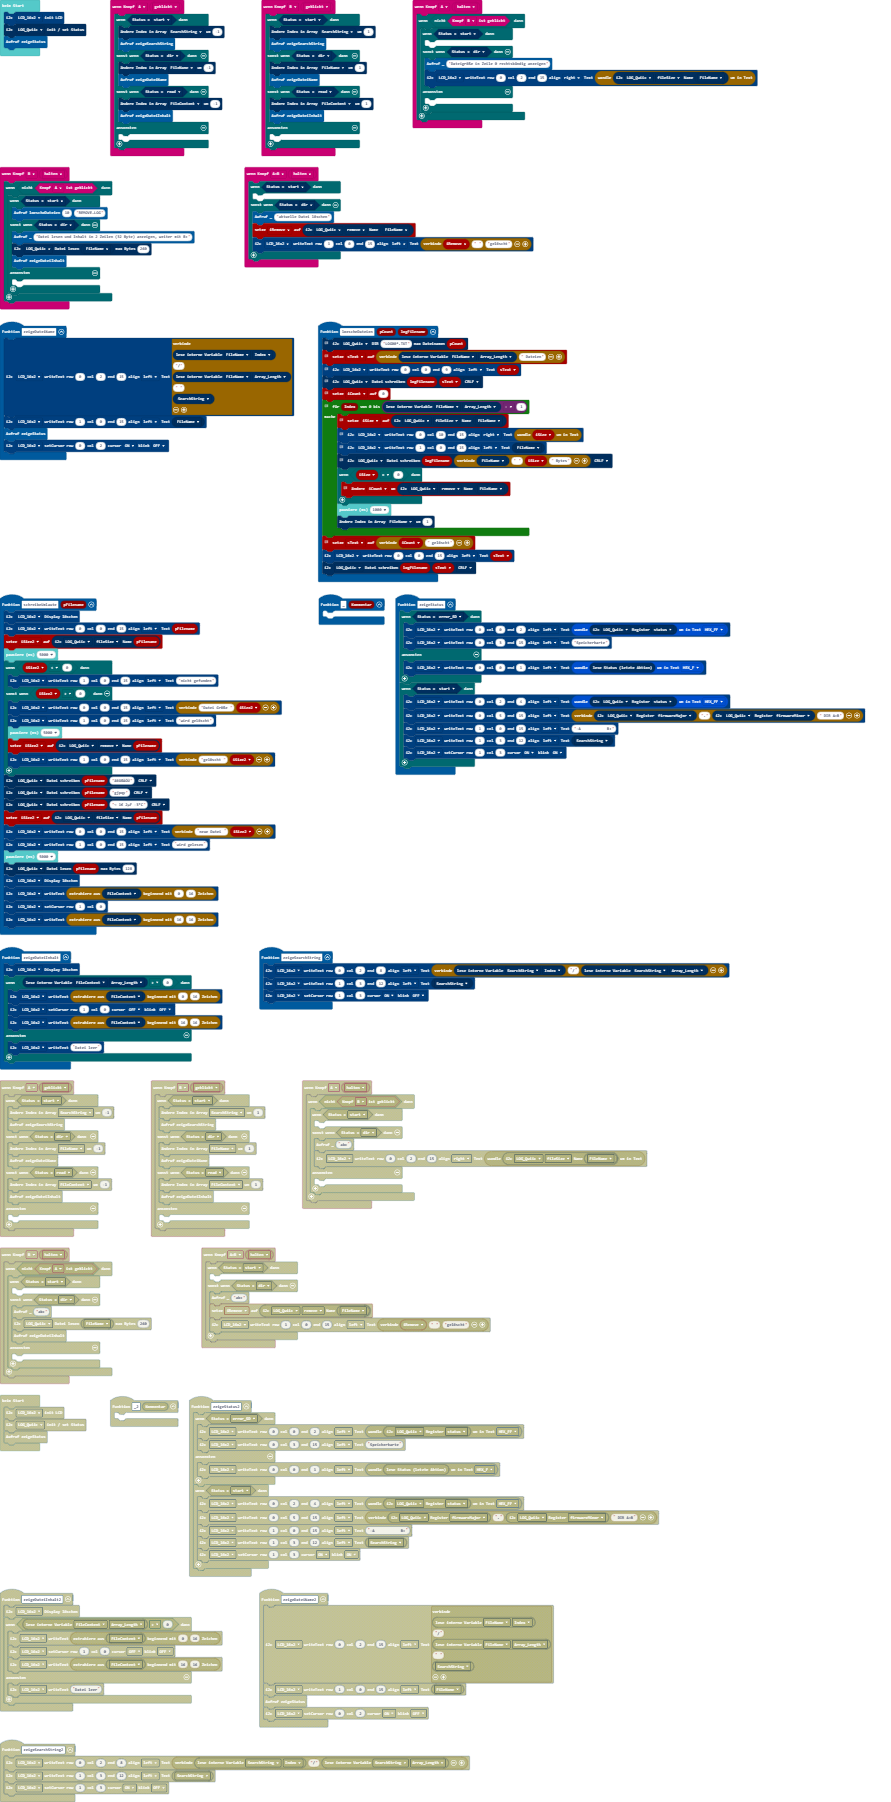
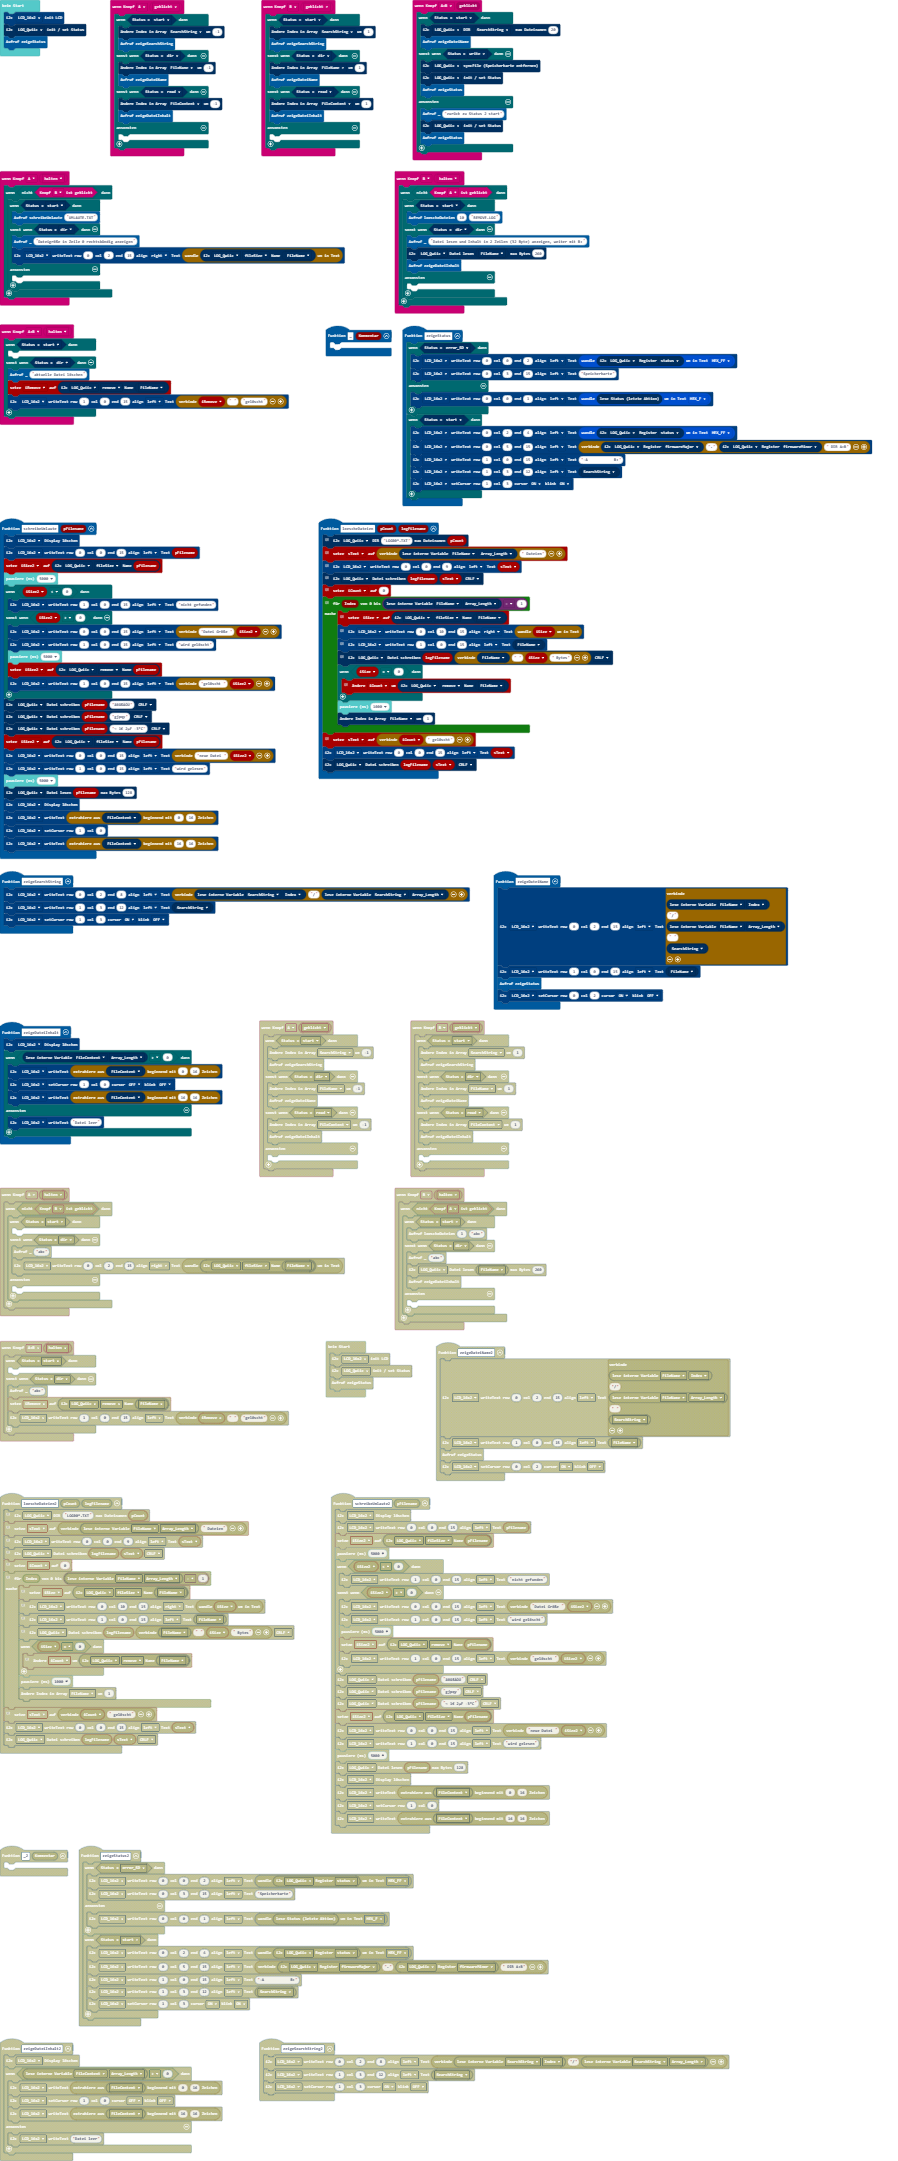
Aktualisiere main.blocks, main.ts

diff --git a/main.ts b/main.ts
@@ -60,6 +60,20 @@ function zeigeDateiName () {
     zeigeStatus()
     lcd16x2rgb.setCursorCB(lcd16x2rgb.eADDR_LCD.LCD_16x2, 0, 2, lcd16x2rgb.eONOFF.ON, lcd16x2rgb.eONOFF.OFF)
 }
+input.onButtonEvent(Button.AB, input.buttonEventClick(), function () {
+    if (qwiicopenlog.isStatus(qwiicopenlog.eStatus.start)) {
+        qwiicopenlog.listDirectory(qwiicopenlog.eADDR.LOG_Qwiic, qwiicopenlog.getString(qwiicopenlog.eArray.SearchString), 20)
+        zeigeDateiName()
+    } else if (qwiicopenlog.isStatus(qwiicopenlog.eStatus.write)) {
+        qwiicopenlog.syncFile(qwiicopenlog.eADDR.LOG_Qwiic)
+        qwiicopenlog.checkStatusRegister(qwiicopenlog.eADDR.LOG_Qwiic)
+        zeigeStatus()
+    } else {
+        _("zurück zu Status 2 start")
+        qwiicopenlog.checkStatusRegister(qwiicopenlog.eADDR.LOG_Qwiic)
+        zeigeStatus()
+    }
+})
 function zeigeStatus () {
     if (qwiicopenlog.isStatus(qwiicopenlog.eStatus.error_SD)) {
         lcd16x2rgb.writeText(lcd16x2rgb.eADDR_LCD.LCD_16x2, 0, 0, 2, lcd16x2rgb.eAlign.left, bit.formatNumber(qwiicopenlog.readRegister(qwiicopenlog.eADDR.LOG_Qwiic, qwiicopenlog.eReadRegister.status), bit.eLength.HEX_FF))
@@ -95,7 +109,7 @@ function _ (Kommentar: string) {
 input.onButtonEvent(Button.A, input.buttonEventValue(ButtonEvent.Hold), function () {
     if (!(input.buttonIsPressed(Button.B))) {
         if (qwiicopenlog.isStatus(qwiicopenlog.eStatus.start)) {
-        	
+            schreibeUmlaute("UMLAUTE.TXT")
         } else if (qwiicopenlog.isStatus(qwiicopenlog.eStatus.dir)) {
             _("Dateigröße in Zeile 0 rechtsbündig anzeigen")
             lcd16x2rgb.writeText(lcd16x2rgb.eADDR_LCD.LCD_16x2, 0, 2, 15, lcd16x2rgb.eAlign.right, convertToText(qwiicopenlog.readInt32BE(qwiicopenlog.eADDR.LOG_Qwiic, qwiicopenlog.eWriteStringReadInt32BE.fileSize, qwiicopenlog.getString(qwiicopenlog.eArray.FileName))))
